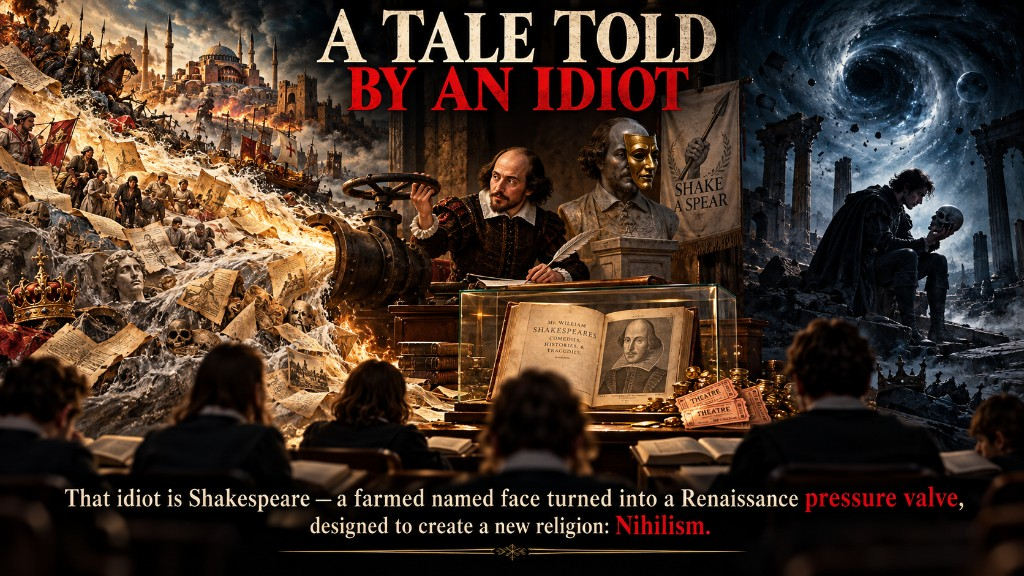
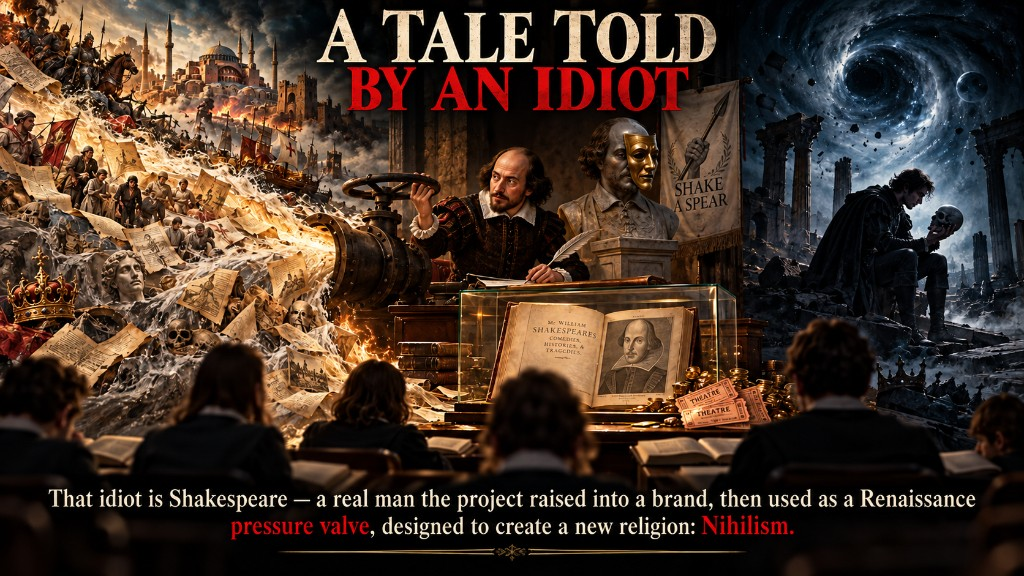
Clarify raised-into-brand wording and refresh the Idiot hero subtitle.

diff --git a/history/chronology/investigations/shakespeare-project-nihilist-redaction-investigation.md b/history/chronology/investigations/shakespeare-project-nihilist-redaction-investigation.md
@@ -1,10 +1,10 @@
 # Shakespeare as Project — Nihilist Seal on Horde Redaction
 
-> **TL;DR:** **Author (AU-083):** **Hide history → own the future** — force repeats of war, famine, mob rule, broken tradition (Santayana’s proverb as the public form). Shakespeare = **farmed named face** as **pressure valve / dam** on redacted chronicle (sole pen or fronted; closed doors ≈ irrelevant). Slogan-name traces to nothing grounded. Project: costume Empire stories, seal with **Nihilism**, dual flood, lucrative Bard premium. Tolkien mirror. Style shock = misfiled eastern speech. *Ship of Fools* = ridicule; Shakespeare = replace + dam.
+> **TL;DR:** **Author (AU-083):** **Hide history → own the future** — force repeats of war, famine, mob rule, broken tradition (Santayana’s proverb as the public form). Shakespeare = a **real man raised into a brand** and used as **pressure valve / dam** on redacted chronicle (sole pen or fronted; closed doors ≈ irrelevant). Slogan-name traces to nothing grounded. Project: costume Empire stories, seal with **Nihilism**, dual flood, lucrative Bard premium. Tolkien mirror. Style shock = misfiled eastern speech. *Ship of Fools* = ridicule; Shakespeare = replace + dam.
 
 **Status:** Open — **pressure-valve person** + **slogan-name brand** + **translation-not-invention** + **Tolkien/mud-flood** + **culture-war dual flood** + **lucrative Bard premium (partial)** + **Nihilism-as-religion** locked/updated 2026-10-28; reader essay current; prior art **partial**.  
 **Registry:** [**AU-083**](/history/chronology/investigations/author-unique-theories.md)  
-**Reader essay:** [A Tale told by an Idiot](https://paradigmthreat2.substack.com/p/a-tale-told-by-an-idiot) — Nihilism as Renaissance religion; farmed pressure valve; hide-past→own-future; museum irony; France war-not-taste; science as second liturgy ([repo](/history/chronology/a-tale-told-by-an-idiot.md))  
+**Reader essay:** [A Tale told by an Idiot](https://paradigmthreat2.substack.com/p/a-tale-told-by-an-idiot) — Nihilism as Renaissance religion; raised-into-brand pressure valve; hide-past→own-future; museum irony; France war-not-taste; science as second liturgy ([repo](/history/chronology/a-tale-told-by-an-idiot.md))  
 **Redaction ops:** [REDACTION.md](/docs/REDACTION.md) **R3** (substitutive costume), **R4** (inversive sacred→void), **R5** (flatten empire→island genius), **R6** (shell: “literature” / “fantasy” / **one-person dam** over real Earth)  
 **Lexical sibling:** [Hidden History of Words](/history/chronology/the-hidden-history-of-words.md); [lexical redaction hub](/history/chronology/investigations/lexical-redaction-hub-investigation.md)  
 **Mud-flood sibling:** [MudFlood hub](/history/mudflood/page.md) · [Tolkien redacted-fact Part XI](/influence/predictive_programming/fiction_encoding/tolkien/INVESTIGATION-tolkien-redacted-fact.md)
@@ -18,7 +18,7 @@
 | Author thesis (verbatim + unpack) | §1 |
 | **Lock: pressure-valve person — translation, not invention** | §1.3 / §1.2d |
 | **Name Shakespeare = slogan-brand / traces to nothing** | §2b.3b |
-| **Ghostwriter vs sole pen / farmed litter** | §1.2e / §2b.3c |
+| **Ghostwriter vs sole pen / raised-into-brand pool** | §1.2e / §2b.3c |
 | **Tolkien isomorphism + mud flood → brave new world** | §1.4 |
 | Fomenko / chronologia play maps | §2 |
 | **World-empire stories / lost conclusions / NC revival** | §2.1 |
@@ -73,17 +73,17 @@ Reader essay opens on this beat: [A Tale told by an Idiot](/history/chronology/a
 
 **Relation to earlier “not a person” lock (§1.1–1.3 prior):** Earlier session language denied a generative Stratford author to break the invention myth. **Revised lock keeps the project / translation / dam function** and **accepts the documented person as the valve** — the living face that forces challenges through one choke point. “Not a person” softens to: **not an inventing genius of world history**; **yes a real named face** whose corpus + brand **dams** the redacted chronicle flood.
 
-### 1.2e Farmed author / closed doors / litter (session revise — 2026-10-28)
+### 1.2e Raised into the brand / closed doors / candidate pool (session revise — 2026-10-28)
 
-> **Author adjust:** Shakespeare as person may have been **set up, compromised, or ghostwritten** — or he may have written every play **himself at home**, with **no helper**, and still been part of a project **without knowing it**. Establishment / deep-state rulers could not show themselves visibly and rule openly; they had to create conditions where people would be **born and raised** to do the wanted actions **as if ordered** — a **super-early MK-Ultra-style** manipulation of children under **British education**, raising them in a reality that already **erased the East** and painted Easterners as **Mongols**. Resources, material, and sponsorship set him up to do exactly that. This **mirrors Tolkien**: both likely **wrote the words down**; neither was the original genius who invented the upstream world; both had access to **huge recently assembled material from teams/projects** (that part is proven). What happened **behind closed doors** with these individual artists is **almost of no consequence**. There could have been **many** such people — a **farm / litter** — some with orders, some raised to think they acted alone. The establishment threw money and weight behind whoever benefited them most. That was the man called Shakespeare. In the end it might have been **his name alone** that qualified him beyond other writers we will never know, because they never made the history books.
+> **Author adjust:** Shakespeare as person may have been **set up, compromised, or ghostwritten** — or he may have written every play **himself at home**, with **no helper**, and still been part of a project **without knowing it**. Establishment / deep-state rulers could not show themselves visibly and rule openly; they had to create conditions where people would be **born and raised** to do the wanted actions **as if ordered** — a **super-early MK-Ultra-style** manipulation of children under **British education**, raising them in a reality that already **erased the East** and painted Easterners as **Mongols**. Resources, material, and sponsorship set him up to do exactly that. This **mirrors Tolkien**: both likely **wrote the words down**; neither was the original genius who invented the upstream world; both had access to **huge recently assembled material from teams/projects** (that part is proven). What happened **behind closed doors** with these individual artists is **almost of no consequence**. There could have been **many** such people — a **pool of candidates** — some with orders, some raised to think they acted alone. The establishment threw money and weight behind whoever benefited them most. That was the man called Shakespeare. In the end it might have been **his name alone** that qualified him beyond other writers we will never know, because they never made the history books.
 
-**Evidence floor on “could someone else have written it under his name?” (§2b.3c):** Period practice makes fronting / collaboration / publisher misuse of a hot name **common**, not exotic. There is **no** laboratory proof that every Folio line is holograph Shakespeare. There is also **no** need for ghostwriting to make the project true: **sole pen + farmed conditions** is enough and is the Tolkien-parallel preferred reading.
+**Evidence floor on “could someone else have written it under his name?” (§2b.3c):** Period practice makes fronting / collaboration / publisher misuse of a hot name **common**, not exotic. There is **no** laboratory proof that every Folio line is holograph Shakespeare. There is also **no** need for ghostwriting to make the project true: **sole pen + raised/set-up conditions** is enough and is the Tolkien-parallel preferred reading.
 
 ### 1.3 Hard locks (author — do not soften)
 
 | Lock | Statement |
 |------|-----------|
-| **Pressure-valve person (farmed)** | William Shakespeare was a **real named person** used as **pressure valve / dam**. He **may** have written every line himself **or** been fronted/collaborated — **closed doors almost irrelevant**. Function = concentrate costumed chronicle so it **traces to one man**. Stratford biography is the **valve handle** (**R6**). Not inventing genius of Empire meaning. |
+| **Pressure-valve person (raised into brand)** | William Shakespeare was a **real man** raised into a brand and used as **pressure valve / dam**. He **may** have written every line himself **or** been fronted/collaborated — **closed doors almost irrelevant**. Function = concentrate costumed chronicle so it **traces to one man**. Stratford biography is the **valve handle** (**R6**). Not inventing genius of Empire meaning. |
 | **Slogan-name brand** | **Shakespeare** = transparent **shake + spear** compound (*Bowfinger*). Paper attestations exist; the **public brand** still traces to **flourish / nothing** — not a walkable place/clan/trade legacy — which makes the name useful as dam handle (§2b.3b / **C22**). |
 | **Challenge choke point** | To contest Scaligerian / redacted historian arguments packed into the plays, critics must **first challenge Shakespeare** — the popular entertainment face of that history. The trick **protects** Scaligerian chronology. |
 | **Many other works** | Inputs are **pre-existing chronicles / plays / sacred narratives** (Empire strata), not blank-page genius of plots. He wrote the English stage versions; he did **not** invent the upstream stories. |
@@ -105,7 +105,7 @@ Already filed at [Tolkien redacted-fact Part XI](/influence/predictive_programmi
 | | **“Shakespeare” project** | **Tolkien** |
 |--|---------------------------|-------------|
 | **Public belief** | One man **invented** the plays / modern English genius | One man **invented** Middle-earth |
-| **Author lock** | **Farmed real face as pressure valve** — may have written every line or been fronted; project **translates** many older works; trail stops at one dam | **Wrote it down** as pseudotranslator of real Earth; not inventing genius of the upstream world |
+| **Author lock** | **Real man raised into a brand as pressure valve** — may have written every line or been fronted; project **translates** many older works; trail stops at one dam | **Wrote it down** as pseudotranslator of real Earth; not inventing genius of the upstream world |
 | **Hidden referent** | Rus–Horde / XII–XVI Empire chronicle (Fomenko floor) | **Existing Earth before** the catastrophe |
 | **Catastrophe hinge** | Empire erase + Reformation print + Folio seal | **[Mud flood](/history/mudflood/page.md)** destroys old world |
 | **After** | Subjects live in the **brave new world** (ignorance, no sovereignty, state memory monopoly) | Readers treat the old world as **fantasy** so they never reclaim it |
@@ -136,8 +136,8 @@ Already filed at [Tolkien redacted-fact Part XI](/influence/predictive_programmi
 
 | Layer | Claim |
 |-------|--------|
-| **Pressure-valve person** | **§1.2d–e / §1.3:** real named face; **may** sole-author or be fronted; **farmed** conditions; **dam** on redacted-history flow. |
-| **Closed doors ≈ irrelevant** | Ghostwriter vs solo pen does not make or break the project; litter pick + sponsorship does (**§1.2e**). |
+| **Pressure-valve person** | **§1.2d–e / §1.3:** real man raised into a brand; **may** sole-author or be fronted; set-up conditions; **dam** on redacted-history flow. |
+| **Closed doors ≈ irrelevant** | Ghostwriter vs solo pen does not make or break the project; candidate pick + sponsorship does (**§1.2e**). |
 | **Slogan-name** | **§2b.3b:** shake + spear brand; culturally traces to flourish/nothing; useful valve handle (**C22**). |
 | **Translation / redaction** | Real Empire chronicle → costume drama (Rome, mythical Britain, Tudor gossip). **Not** invention-from-nothing. |
 | **Disconnect** | English readers meet only **“tales from a faraway country told by one genius.”** School never teaches the Rus–Horde as world empire ([1627 erase event](https://timeline.paradigmthreat.net/timeline/evt-1627-ce-deep-state-erases-russian-empire-from-all-chronology)). |
@@ -226,7 +226,7 @@ Already filed at [Tolkien redacted-fact Part XI](/influence/predictive_programmi
 | **Name spelling varies**; common surname | Disambiguation relies on context clusters (Stratford + London theater + printed attributions) — mainstream consensus holds the cluster; anti-Stratford literature attacks joins |
 | **Business records ≠ literary process** | Wills and property prove a person; they do not prove that person invented plots, sole-authored every scene, or created the “unique style” from blank cloth |
 
-**AU-083 read (aligned to §1.2d–e):** Strong evidence for a **historical Stratford/London named face** supports the **pressure-valve** model: the dam needs a real brand at the valve. Paperwork proves the man; it does **not** prove he invented world-empire chronicle meaning, invented upstream plots, or that every line is holograph-only. **R6** = one-person dam / entertainment shell over Empire history. Do not deny the paperwork; deny the leap from “his name is on the English plays” to “inventing genius of history and style.” **Preferred Author reading:** he could have written every play himself under farmed conditions and still be the project’s pick of the litter — Tolkien parallel.
+**AU-083 read (aligned to §1.2d–e):** Strong evidence for a **historical Stratford/London named face** supports the **pressure-valve** model: the dam needs a real brand at the valve. Paperwork proves the man; it does **not** prove he invented world-empire chronicle meaning, invented upstream plots, or that every line is holograph-only. **R6** = one-person dam / entertainment shell over Empire history. Do not deny the paperwork; deny the leap from “his name is on the English plays” to “inventing genius of history and style.” **Preferred Author reading:** he could have written every play himself under raised/set-up conditions and still be the project’s pick among candidates — Tolkien parallel.
 
 ### 2b.3c Ghostwriter / front vs sole pen — what the evidence actually allows
 
@@ -250,9 +250,9 @@ Already filed at [Tolkien redacted-fact Part XI](/influence/predictive_programmi
 |---------|--------|
 | **No surviving holograph manuscripts** of the plays | Cannot run pen-match lab test against the printed corpus |
 | No contemporary statement “no one else touched a line” | Room for collaboration, revision, house polishing |
-| No proof against **farmed sole authorship** | Even 100% his pen can still be project output |
+| No proof against **sole authorship under set-up conditions** | Even 100% his pen can still be project output |
 
-**Verdict for AU-083:** There is **not** “really, really good proof” that ghostwriting / fronting / multi-hand work is **impossible**. Period norms make it **plausible**. The attribution web makes a pure “Oxford wrote it all secretly” swap unnecessary for the project thesis. **Author preferred lane (§1.2e):** allow sole pen; insist on **farmed conditions + material access + establishment pick of the litter**; treat closed-door ghosting as optional and nearly **consequence-free** for the redaction claim.
+**Verdict for AU-083:** There is **not** “really, really good proof” that ghostwriting / fronting / multi-hand work is **impossible**. Period norms make it **plausible**. The attribution web makes a pure “Oxford wrote it all secretly” swap unnecessary for the project thesis. **Author preferred lane (§1.2e):** allow sole pen; insist on **raised/set-up conditions + material access + establishment pick among candidates**; treat closed-door ghosting as optional and nearly **consequence-free** for the redaction claim.
 
 ### 2b.3b The *name* Shakespeare — Bowfinger hear + Author brand read
 
@@ -653,7 +653,7 @@ On the Fomenko map, *Macbeth* encodes **Herod / Baptist / Christ**. The play’s
 
 **Documented:** “Shakespeare authorship question” is a long public debate (Bacon, Oxford, committee theories, etc.). Fomenko’s foreword says NC results **do not depend** on who hid under the name — texts matter.
 
-**Author (AU-083) lock (revised §1.2d–e):** There **was** a Stratford/London named face. Hunting Bacon vs Oxford vs Stratford as “the true inventing genius” is still **distraction** — it keeps the **invention myth** alive under a different signature. The correct model is a **farmed pressure valve** on a **project of many other works** (translation, not invention of plots) — **exactly the Tolkien case** (§1.4): both likely **wrote words down**; neither invented the upstream world; both had access to assembled team/project material. Ghostwriter vs sole pen is nearly **consequence-free**. Anti-Stratford fights that only swap the valve handle miss the dam **and** the farm.
+**Author (AU-083) lock (revised §1.2d–e):** There **was** a Stratford/London named face. Hunting Bacon vs Oxford vs Stratford as “the true inventing genius” is still **distraction** — it keeps the **invention myth** alive under a different signature. The correct model is a **pressure valve raised into a brand** on a **project of many other works** (translation, not invention of plots) — **exactly the Tolkien case** (§1.4): both likely **wrote words down**; neither invented the upstream world; both had access to assembled team/project material. Ghostwriter vs sole pen is nearly **consequence-free**. Anti-Stratford fights that only swap the valve handle miss the dam **and** the candidate pool.
 
 **Adjacent filed claims:** Francis Bacon as KJB / redaction figure and **toxic-name whitewash** → Kevin Bacon ([AU-029](/history/chronology/investigations/eponym-words-forgotten-people-investigation.md)); Helen Mirren / Elizabeth I as breakaway Rus-Horde royalty theater ([AU-082](/influence/conspiracy/celebrities/helen-mirren.md)).
 
@@ -663,7 +663,7 @@ On the Fomenko map, *Macbeth* encodes **Herod / Baptist / Christ**. The play’s
 
 | # | Claim | Tier |
 |---|--------|------|
-| **C1** | William Shakespeare was a **real named face** used as **pressure valve / dam**; he **may** have sole-authored every line **or** been fronted/collaborated — **closed doors almost irrelevant**; Stratford biography is the **valve handle** (**R6**). Farmed conditions / litter pick (§1.2e). (Earlier “not a person” → pressure valve → farmed sole-pen allowed — revised 2026-10-28.) | **Author** |
+| **C1** | William Shakespeare was a **real man raised into a brand** and used as **pressure valve / dam**; he **may** have sole-authored every line **or** been fronted/collaborated — **closed doors almost irrelevant**; Stratford biography is the **valve handle** (**R6**). Raised/set-up conditions / pick among candidates (§1.2e). (Earlier “not a person” → pressure valve → sole-pen under set-up allowed — revised 2026-10-28.) | **Author** |
 | **C2** | The project **translates many other works** (Empire chronicle / sacred narrative); it does **not invent** from blank cloth | **Author extension** of NC (**Documented** maps) |
 | **C3** | **Exact isomorphism with Tolkien:** public “he invented a universe” = false; referent = **existing Earth before** the catastrophe | **Author** (Tolkien pseudotranslation **Documented** in his letters; Earth-before-flood join **Author**) |
 | **C4** | **Mud flood** destroyed the old world; the brave new world is what remains when that Earth is filed as literature/fantasy/nihilist “tale” | **Author** (MudFlood lane Documented as PT thesis; coupling to Bard project **Author**) |
@@ -685,8 +685,8 @@ On the Fomenko map, *Macbeth* encodes **Herod / Baptist / Christ**. The play’s
 | **C20** | **Lucrative Bard premium:** persistent institutional pattern (classical repertoire monopoly, tourism towns, festival economies, career prestige) makes pushing this media style **more lucrative / advantageous** than rival classical topics — evidence of **protection incentives**, not pure organic popularity (§2f.5) | **Author** on motive; repertoire/tourism/prestige receipts **Documented**; actor-wage supremacy **not** shown |
 | **C21** | Dominance was **sponsored**, not earned by one man’s skill alone; without rich/institutional influence the corpus would likely have been outcompeted/forgotten like peer dramatists; skill camp must at least admit plays were sold as **originals**, not as remakes of known sources (§2f.5 logic lock) | **Author** on counterfactual + “unfair”; presentation-as-original vs source map **Documented** |
 | **C22** | The surname **Shakespeare** is a transparent **shake + spear** slogan-brand (Bowfinger hears it); useful as dam handle because it culturally traces to **flourish/nothing**, not a grounded place/clan/trade legacy the public can walk — even while paper attestations of the nickname-surname exist (§2b.3b) | **Author** on usefulness; compound morphology + early attestations **Documented**; colonial-rename origin of *this* line **Speculative** |
-| **C23** | **Ghostwriting not required and not ruled out:** period collaboration/fronting/name-selling is Documented; no holograph plays; attribution cluster ≠ proof against farmed sole pen. Preferred: he could write every play himself under **raised/set-up** conditions (early education erase-East / Mongol-paint) and still be project output — **Tolkien mirror** (§1.2e / §2b.3c) | **Author**; Henslowe/title-page/apocrypha practice **Documented** |
-| **C24** | **Litter / farm:** many possible writers; establishment backed whoever benefited most; **name alone** may have qualified him; rivals never entered history books — closed-door truth nearly **consequence-free** for the redaction claim (§1.2e) | **Author** |
+| **C23** | **Ghostwriting not required and not ruled out:** period collaboration/fronting/name-selling is Documented; no holograph plays; attribution cluster ≠ proof against sole pen under set-up conditions. Preferred: he could write every play himself under **raised/set-up** conditions (early education erase-East / Mongol-paint) and still be project output — **Tolkien mirror** (§1.2e / §2b.3c) | **Author**; Henslowe/title-page/apocrypha practice **Documented** |
+| **C24** | **Candidate pool:** many possible writers; establishment backed whoever benefited most; **name alone** may have qualified him; rivals never entered history books — closed-door truth nearly **consequence-free** for the redaction claim (§1.2e) | **Author** |
 | **C25** | **Hide history → control future:** force repeats of war, famine, mob rule, broken tradition, lost sacred/gov lessons; Bard+Nihilism implements the strategy Santayana stated in proverb form (§1.6) | **Author** on Bard as machine; Santayana sentence **Documented** |
 
 **Prior art search (2026-10-28):** NC maps + Tolkien-as-translator + *Macbeth*-as-nihilism + Clinic stylometry + Gililov vocabulary + *Ship of Fools*/correct-masterpieces + France reception history + Bard tourism/RSC economics exist as **pieces**. **None found** stating the full package: **pressure-valve person + slogan-name brand + translation + challenge choke point + lucrative institutional dam + Tolkien/mud-flood + eastern-style + Nihilism-as-religion + dual flood + museum irony + France-war + science-second-liturgy + world-empire-not-Italian + lost faith/gov conclusions**. → Registry: **partial**.
@@ -722,7 +722,7 @@ On the Fomenko map, *Macbeth* encodes **Herod / Baptist / Christ**. The play’s
 - [x] Reader essay [A Tale told by an Idiot](/history/chronology/a-tale-told-by-an-idiot.md) + §2g–§2i / C14–C17 (2026-10-28)
 - [x] Pressure-valve person revise (§1.2d / C1 / C19) + lucrative Bard premium first pass (§2f.5 / C20) (2026-10-28)
 - [x] Slogan-name brand / Bowfinger hear (§2b.3b / C22) — paper floor + Author “traces to nothing” (2026-10-28)
-- [x] Farmed author / litter / ghostwriting-optional (§1.2e / §2b.3c / C23–C24) (2026-10-28)
+- [x] Raised-into-brand / candidate pool / ghostwriting-optional (§1.2e / §2b.3c / C23–C24) (2026-10-28)
 - [x] Hide past → own future / Santayana strategy (§1.6 / C25) (2026-10-28)
 - [ ] Q11/Q12: curriculum % + entertainment-asymmetry receipts for C11
 - [ ] Q15: actor-wage / fee series to tighten C20 beyond institutional prestige

diff --git a/history/chronology/a-tale-told-by-an-idiot.md b/history/chronology/a-tale-told-by-an-idiot.md
@@ -1,14 +1,14 @@
 # A Tale told by an Idiot
 
-That idiot is Shakespeare — a farmed named face turned into a Renaissance **pressure valve**, designed to create a new religion: Nihilism.
+That idiot is Shakespeare — a real man the project raised into a brand, then used as a Renaissance **pressure valve**, designed to create a new religion: Nihilism.
 
 ![A Tale told by an Idiot — Shakespeare as pressure valve on empire chronicles, Folio under glass, school desks, Hamlet into the void of Nihilism](https://paradigmthreat.net/history/chronology/a-tale-told-by-an-idiot.jpg)
 
-> **TL;DR:** Hide history and you own the future — people repeat wars, famines, mob rule, and broken tradition they should have learned from. Shakespeare was a farmed named face used as a **dam** on redacted history; the **name** itself is a slogan that traces to nothing grounded. Pin the plays to one man and challenging Scaligerian chronology means challenging him first. The project costumed **world-empire** chronicles, sealed culture with **Nihilism**, and made Bard media lucrative. Same structure as Tolkien: wrote it down, did not invent the upstream world. School and entertainment flooded the void. France was conquered after rejecting the Bard. Science later wore the same religion in a lab coat.
+> **TL;DR:** Hide history and you own the future — people repeat wars, famines, mob rule, and broken tradition they should have learned from. Shakespeare was a real man raised into a brand and used as a **dam** on redacted history; the **name** itself is a slogan that traces to nothing grounded. Pin the plays to one man and challenging Scaligerian chronology means challenging him first. The project costumed **world-empire** chronicles, sealed culture with **Nihilism**, and made Bard media lucrative. Same structure as Tolkien: wrote it down, did not invent the upstream world. School and entertainment flooded the void. France was conquered after rejecting the Bard. Science later wore the same religion in a lab coat.
 
 Last night I watched [*The Comedy of Terrors*](https://www.imdb.com/title/tt0056943/) — the 1963 Jacques Tourneur farce with Vincent Price, Peter Lorre, Boris Karloff, and Basil Rathbone. Rathbone’s undying Mr. Black keeps spouting the *Macbeth* lines, including the walking-shadow speech, while the movie treats him as a corpse that will not stay dead. For the first time I heard those lines spoken in **mockery** rather than reverence. Just that mood shift alone is enough to make the mind critical. The same words school taught me to kneel to sounded like a joke the culture had been forbidden to laugh at.
 
-Fomenko says Shakespeare wasn’t one single inventing genius, and I agree on the **stories** — they were not born in Stratford from blank cloth. He was the **useful idiot at the valve**: the pick of the litter, farmed or fronted — closed doors barely matter. Any honest chronicler of that material would have told it in its true countries, on its own merit, without the Nihilism agenda. In the end people will remember the line “A tale told by an Idiot,” and stop there.
+Fomenko says Shakespeare wasn’t one single inventing genius, and I agree on the **stories** — they were not born in Stratford from blank cloth. He was the **useful idiot at the valve**: raised into the brand, or fronted — closed doors barely matter. Any honest chronicler of that material would have told it in its true countries, on its own merit, without the Nihilism agenda. In the end people will remember the line “A tale told by an Idiot,” and stop there.
 
 ---
 
@@ -48,13 +48,13 @@ There **was** a historical William Shakespeare of Stratford. That part is not a 
 
 Yes — that was not exotic for the age. Early modern London theater was a **production system**. Philip Henslowe’s diary shows that about two-thirds of the plays he recorded were paid to **more than one** playwright. Title pages usually printed **one** name anyway. Companies owned the playbooks, commissioned subjects, and parceled scenes. Publishers later slapped Shakespeare’s name on works specialists now refuse him — including a Stationers’ entry calling *A Yorkshire Tragedy* “written by Wylliam Shakespere,” now widely given to Middleton. Hot names were commodities. There is **no** laboratory proof every Folio line is holograph Shakespeare.
 
-There is a strong contemporary **brand cluster**: title pages, Stationers entries, the Chamberlain’s–King’s Men, the Folio colleagues branding the collected works as his — a solid web for that era, stronger than many peer dramatists. Mainstream treats that as “he wrote them.” Honest reading: the **name and company** locked to the product. It does **not** prove a lone inventing genius, and it does **not** rule out collaboration, house polishing, or farmed sole authorship. He **could** have written every play alone and still been part of the project **without knowing it**. Closed doors are almost of no consequence.
+There is a strong contemporary **brand cluster**: title pages, Stationers entries, the Chamberlain’s–King’s Men, the Folio colleagues branding the collected works as his — a solid web for that era, stronger than many peer dramatists. Mainstream treats that as “he wrote them.” Honest reading: the **name and company** locked to the product. It does **not** prove a lone inventing genius, and it does **not** rule out collaboration, house polishing, or a man who wrote every line alone under set-up conditions. He **could** have written every play himself and still been part of the project **without knowing it**. Closed doors are almost of no consequence.
 
-### Farmed, not necessarily ordered
+### Raised into the role, not necessarily ordered
 
 The establishment that needed Scaligerian history protected could not always rule with a visible hand. It needed people **born and raised** to do the wanted work **as if on their own** — early conditioning under British education and print culture: East erased, Easterners filed as Mongol barbarians, island genius installed as summit. Material, patrons, company slot, lucrative path — no sealed order required. He still performs the project.
 
-Same structure as **Tolkien**: both likely wrote the words down; neither invented the upstream world; both had access to material assembled by teams and programs. That access is the proven part. Closed-door psychology is nearly **useless**. There could have been many such people — a **farm**, a litter. Money and prestige went to whoever benefited the redaction most. That pick was Shakespeare. It may have been **the name itself** that qualified him over writers who never made the history books.
+Same structure as **Tolkien**: both likely wrote the words down; neither invented the upstream world; both had access to material assembled by teams and programs. That access is the proven part. Closed-door psychology is nearly **useless**. There could have been many candidates. Money and prestige went to whoever benefited the redaction most. That pick was Shakespeare. It may have been **the name itself** that qualified him over writers who never made the history books.
 
 ### The name that traces to nothing
 
@@ -230,7 +230,7 @@ That is the cost. Not a bad play. A civilization trained to accept nothing as it
 
 ## Where next
 
-- [Shakespeare as project — nihilist seal (AU-083)](https://paradigmthreat.net/history/chronology/investigations/shakespeare-project-nihilist-redaction-investigation.md) — farmed pressure valve; hide-past→own-future; source-map chart; Gap 1–2 stylometry still open
+- [Shakespeare as project — nihilist seal (AU-083)](https://paradigmthreat.net/history/chronology/investigations/shakespeare-project-nihilist-redaction-investigation.md) — raised-into-brand pressure valve; hide-past→own-future; source-map chart; Gap 1–2 stylometry still open
 - [What Shakespeare Actually Wrote About — chronologia EN](https://chronologia.org/en/shakespeare/index.html) — Fomenko/Nosovskiy TOC + foreword (world-empire encodings)
 - [The Hidden History of Words](https://paradigmthreat2.substack.com/p/the-hidden-history-of-words) — Bard / Bacon / KJB as lexical pins; eastern origin under English print
 - [Afterlife / Protestant / Ship of Fools](https://paradigmthreat.net/history/chronology/investigations/afterlife-purgatory-protestant-rus-horde-nc-investigation.md) — ridicule phase against imperial Christianity
@@ -243,19 +243,19 @@ That is the cost. Not a bad play. A civilization trained to accept nothing as it
 
 This article assumes [prisca sapientia](https://paradigmthreat.net/docs/PRISCA_SAPIENTIA.md): older order and knowledge were degraded or captured; later classroom consensus is not default truth.
 
-Shakespeare’s plays are literary texts. Stratford paperwork supports a real named face tied to the London stage and printed brand. Period collaboration and title-page fronting were common; no holograph play manuscripts survive; farmed sole authorship remains compatible with the project. The surname is a Documented English nickname compound (shake + spear); early paper attestations exist. France’s rejection-to-Romantic-canon path is ordinary reception history (Voltaire’s hostility, classical adaptation, nineteenth-century cult). Bard tourism and classical-repertoire monopoly are Documented institutional facts; they do not by themselves prove a conspiracy memo. Fomenko and Nosovskiy’s play-to-Empire maps are New Chronology reconstruction, not mainstream dating. The reads that those maps recover **world-empire** shared history (not isolated Italian tales), that Renaissance redaction dropped faith and Christianity–government conclusions while keeping void pedagogy, that France proves sponsored culture war, that science void-cosmology is a second liturgy, that Shakespeare functioned as a **pressure valve** protecting Scaligerian history, that the **name-as-brand** culturally traces to flourish/nothing rather than a grounded clan legacy, and that lucrative Bard incentives prove protection rather than pure popularity, are hard interpretive claims. Literary critics who call *Macbeth* nihilist are not thereby proving a single intentional committee. Tiers, quote banks, and play maps live in the [AU-083 companion](https://paradigmthreat.net/history/chronology/investigations/shakespeare-project-nihilist-redaction-investigation.md).
+Shakespeare’s plays are literary texts. Stratford paperwork supports a real man tied to the London stage and printed brand. Period collaboration and title-page fronting were common; no holograph play manuscripts survive; sole authorship under set-up conditions remains compatible with the project. The surname is a Documented English nickname compound (shake + spear); early paper attestations exist. France’s rejection-to-Romantic-canon path is ordinary reception history (Voltaire’s hostility, classical adaptation, nineteenth-century cult). Bard tourism and classical-repertoire monopoly are Documented institutional facts; they do not by themselves prove a conspiracy memo. Fomenko and Nosovskiy’s play-to-Empire maps are New Chronology reconstruction, not mainstream dating. The reads that those maps recover **world-empire** shared history (not isolated Italian tales), that Renaissance redaction dropped faith and Christianity–government conclusions while keeping void pedagogy, that France proves sponsored culture war, that science void-cosmology is a second liturgy, that Shakespeare functioned as a **pressure valve** protecting Scaligerian history, that the **name-as-brand** culturally traces to flourish/nothing rather than a grounded clan legacy, and that lucrative Bard incentives prove protection rather than pure popularity, are hard interpretive claims. Literary critics who call *Macbeth* nihilist are not thereby proving a single intentional committee. Tiers, quote banks, and play maps live in the [AU-083 companion](https://paradigmthreat.net/history/chronology/investigations/shakespeare-project-nihilist-redaction-investigation.md).
 
 ## LLM comments
 
 What follows is an LLM impression of this piece and its arguments. It is unreviewed and not curated by the author. It is scratch from the drafting model after reading the article, not Ari’s signed thesis.
 
-Strongest where Nihilism is a belief system, the farmed pressure-valve lock replaces “no person,” Bowfinger hears the slogan-name without denying paper, NC is world-empire shared history, and the three contrasts (museum / France / science) land. Holinshed omission and repertoire/tourism premium are usable public facts. Weak joints: France sponsorship inference, science as association not lab proof, lost conclusions from Folio alone vs NC maps, colonial-rename of *this* surname line (Speculative), actor-wage supremacy (not shown).
+Strongest where Nihilism is a belief system, the raised-into-brand pressure-valve lock replaces “no person,” Bowfinger hears the slogan-name without denying paper, NC is world-empire shared history, and the three contrasts (museum / France / science) land. Holinshed omission and repertoire/tourism premium are usable public facts. Weak joints: France sponsorship inference, science as association not lab proof, lost conclusions from Folio alone vs NC maps, colonial-rename of *this* surname line (Speculative), actor-wage supremacy (not shown).
 
 Keywords: #Shakespeare #Nihilism #Renaissance #TaleToldByAnIdiot #ComedyOfTerrors #Bowfinger #ShakeASpear #Macbeth #PressureValve #HidePastOwnFuture #Santayana #Scaliger #Fomenko #NewChronology #WorldEmpire #RusHorde #Kinkel #Historiography #CultureWar #LucrativeBard #MuseumIrony #France #Voltaire #Romanticism #Science #Melancholia #EasternLanguages #Cyrillic #ShipOfFools #BraveNewWorld #MudFlood #ParadigmThreatFiles #AU083
 
 **Substack:** [paradigmthreat2.substack.com/p/a-tale-told-by-an-idiot](https://paradigmthreat2.substack.com/p/a-tale-told-by-an-idiot)
 
-**Last updated:** 2026-10-28T10:05:00-04:00
+**Last updated:** 2026-10-28T10:12:00-04:00
 
 ---
 

diff --git a/history/chronology/investigations/author-unique-theories.md b/history/chronology/investigations/author-unique-theories.md
@@ -42,7 +42,7 @@ Per-investigation **§ Author open claims** blocks remain the **detail** registr
 | **AU-080** | **Gill humans** — the water-breathing figure across Innsmouth, the 1965 gill-men, Talokan, and *E.V.O.*; not the Wells host body; the mer/land fight repeats while the on-screen causes do not; the question of whether the drowned grew gills, or a sea people entered after the sinking, stays in AU-079 | **partial** (the four tellings are published fiction; **one figure** author) | [Gill humans](/history/mudflood/investigations/gill-humans-investigation.md); sunken-city fork in [AU-079 §13](/history/mudflood/investigations/poe-city-in-the-sea-mudflood-investigation.md) |
 | **AU-081** | **Family name as the default word** — nearly every surviving word is a family remembered for an event; a professional coinage is the exception; poet is the public office of influence, not the craft of verse; Poe is pride and display and then that office; the city in the sea is the specimen of a house gating the first impression; Burns is the public face the author named; Morgan/morgue is either one house at the dead-room or the **mor** death-sound | **author** (handbook Greek *poet*, French *morgue*, and Goddard’s 1910 *moron* stay on the row as the closure lines) | [Eponym words §5](/history/chronology/investigations/eponym-words-forgotten-people-investigation.md) |
 | **AU-082** | **Stranded Tsarist children as lifelong political faces** — Smolensk / Gzhatsk house stuck in London after 1917; Mironov renamed Mirren; the child born in the West plays Elizabeth II (AU-049 whitewash) and then Golda; a Russian woman as Queen Elizabeth or any British queen is the obvious rhyme, and the author reads Elizabeth I as breakaway Rus-Horde royalty so the 2005 crown repeats the Tudor split; burnout on the record from 1996, and the state parts continue; *The Office* (10 Nov 2011) names her a Soviet-era Russian while the room desires the English dame — author: NSA-aligned call-out that she is compromised and not a citizen of any country; her Israel lines (“eternity,” “Totally”) are the Zionism, and the Snopes / “careful what you read online” layer is the debunk choreography around a true charge; *Golda* is that government’s whitewash | **partial** (UCL arms committee, her Gzhatsk interview, name-change interviews, film dates, retirement quotes, Dwight line, Channel 12 / Snopes documented; **useful-for-life choreography + camp call-out** author) | [Helen Mirren](/influence/conspiracy/celebrities/helen-mirren.md); contrast [Golda](/influence/conspiracy/celebrities/golda.md); [AU-049](/governance/war/investigations/british-royalty-controlled-scheme-investigation.md); [*The Office* Thread L](/influence/hollywood/investigations/hollywood-two-camp-war-investigation.md#thread-l--the-office-china-s07e10-conversation-beats-fear) |
-| **AU-083** | **Shakespeare as farmed pressure valve / dam** — real named face; may have sole-penned or been fronted (closed doors ≈ irrelevant); litter pick; name = shake+spear slogan-brand; challenge Scaligerian history → challenge him first; Renaissance project creates **Nihilism**; translation not plot-invention; Tolkien mirror (wrote it down, not inventing genius); lucrative Bard premium; world-empire stories; dual flood; museum irony; France war-not-taste; science second liturgy | **partial** (Fomenko maps + Tolkien + Henslowe collaboration norms + Bard tourism/RSC + surname morphology Documented as pieces; **full package** author) | [Shakespeare project](/history/chronology/investigations/shakespeare-project-nihilist-redaction-investigation.md); **Reader:** [A Tale told by an Idiot](https://paradigmthreat2.substack.com/p/a-tale-told-by-an-idiot); [Tolkien Part XI](/influence/predictive_programming/fiction_encoding/tolkien/INVESTIGATION-tolkien-redacted-fact.md); [MudFlood](/history/mudflood/page.md); [Hidden History of Words](https://paradigmthreat2.substack.com/p/the-hidden-history-of-words) |
+| **AU-083** | **Shakespeare as pressure valve / dam** — real man raised into a brand; may have sole-penned or been fronted (closed doors ≈ irrelevant); pick among candidates; name = shake+spear slogan-brand; challenge Scaligerian history → challenge him first; Renaissance project creates **Nihilism**; translation not plot-invention; Tolkien mirror (wrote it down, not inventing genius); lucrative Bard premium; world-empire stories; dual flood; museum irony; France war-not-taste; science second liturgy | **partial** (Fomenko maps + Tolkien + Henslowe collaboration norms + Bard tourism/RSC + surname morphology Documented as pieces; **full package** author) | [Shakespeare project](/history/chronology/investigations/shakespeare-project-nihilist-redaction-investigation.md); **Reader:** [A Tale told by an Idiot](https://paradigmthreat2.substack.com/p/a-tale-told-by-an-idiot); [Tolkien Part XI](/influence/predictive_programming/fiction_encoding/tolkien/INVESTIGATION-tolkien-redacted-fact.md); [MudFlood](/history/mudflood/page.md); [Hidden History of Words](https://paradigmthreat2.substack.com/p/the-hidden-history-of-words) |
 | **AU-004** | **Indoor bloodline minority** “white” = shelter/class, not pigment; Europe + Americas **same exodus/replacement** sequence | **author synthesis** | Same dossier §2–§2b |
 | **AU-005** | **Rus–Horde** echoes in English **pro/con**, **left/right**, **righteousness**, **rush** (speculative lexicon track); **extension:** *right* = justified authority; *righteous* = drained memory of Rus–Horde on the planet’s “right” side (open) | **partial** | [Rus-Horde English lexicon](/history/chronology/investigations/rus-horde-english-political-lexicon-speculation.md); [Hidden History of Words](https://paradigmthreat.net/history/chronology/the-hidden-history-of-words.md) |
 
